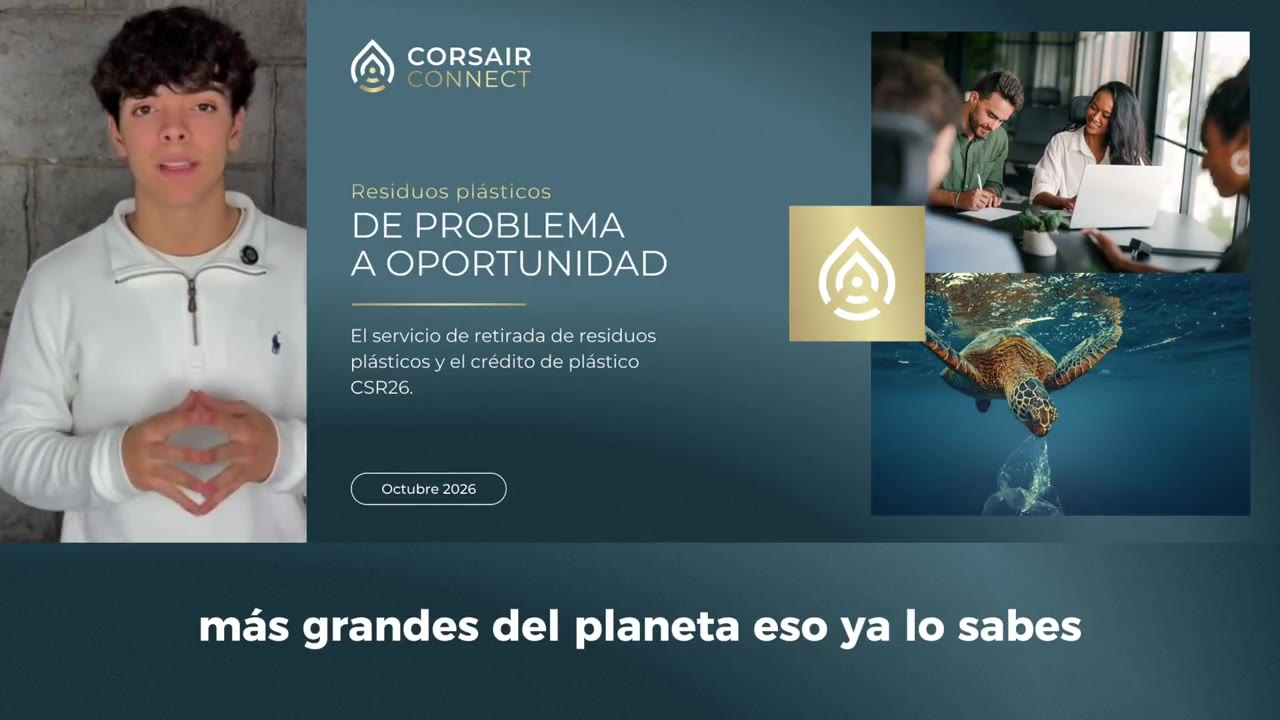
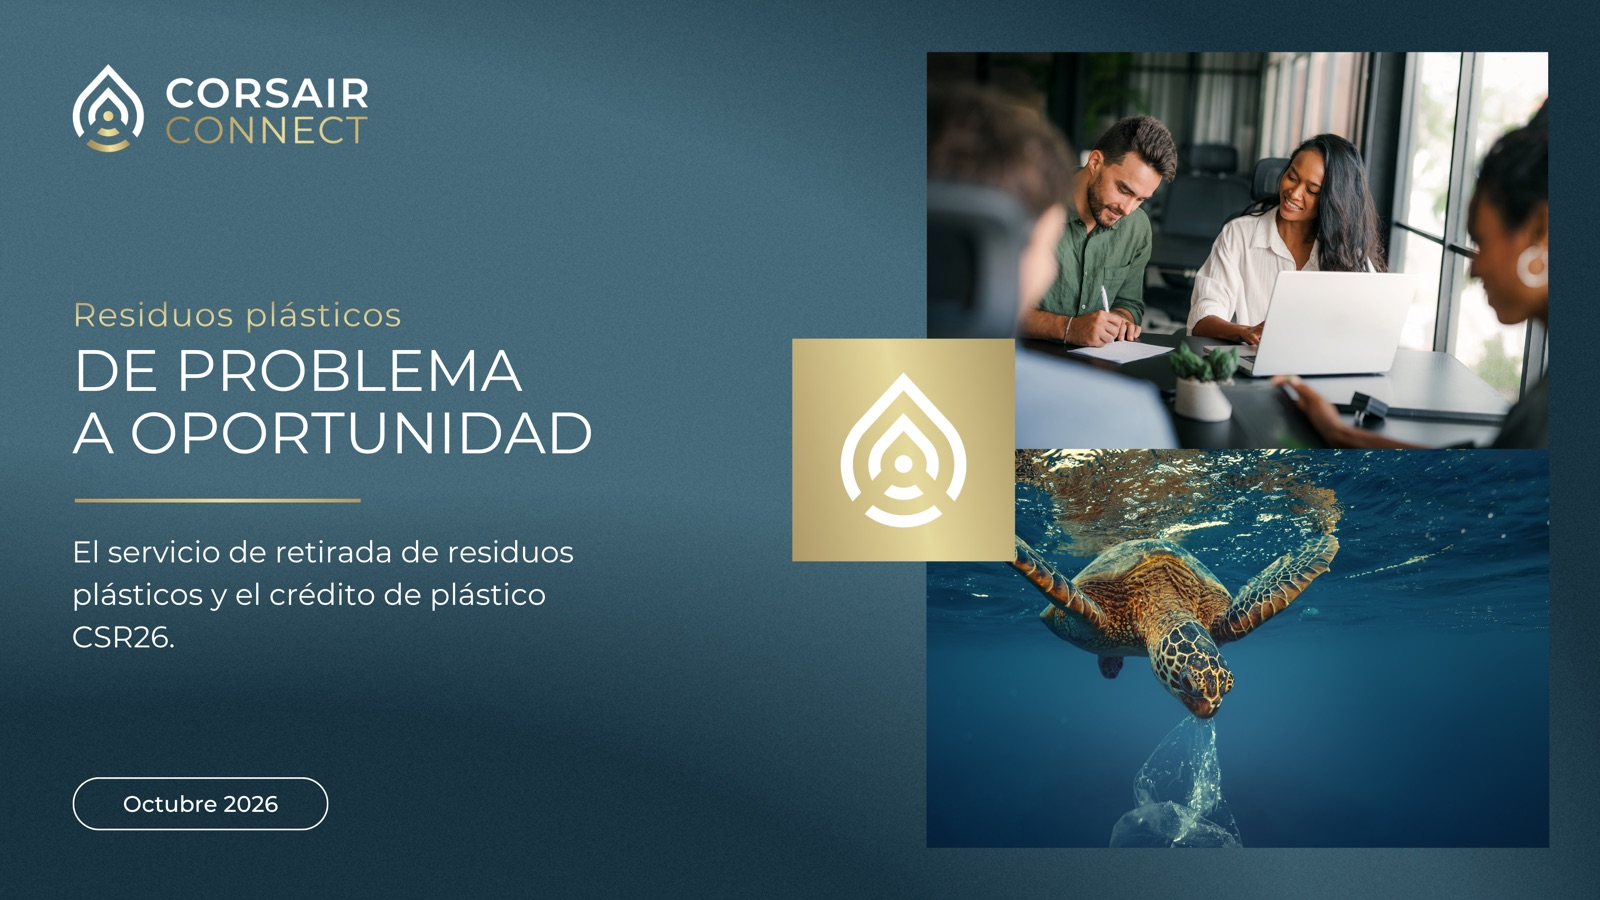
Nueva portada del vídeo principal, oscurecida

diff --git a/index.html b/index.html
@@ -371,7 +371,7 @@
 
   <!-- VÍDEO PRINCIPAL. El botón de abajo aparece en los últimos 30 s -->
   <div class="video rv" id="v" data-src="video.mp4">
-    <div class="ph" onclick="playVideo()" style="background:url(videos/portada-principal.jpg) center/cover">
+    <div class="ph" onclick="playVideo()" style="background:linear-gradient(rgba(5,8,20,.5),rgba(5,8,20,.5)),url(videos/portada-principal.jpg?v=2) center/cover">
       <div class="play"><svg viewBox="0 0 24 24" fill="#fff"><path d="M6 4l14 8-14 8z"/></svg></div>
       <div class="tag"><b>La ola del plástico</b>Corsair Group International · CSR26</div>
     </div>
